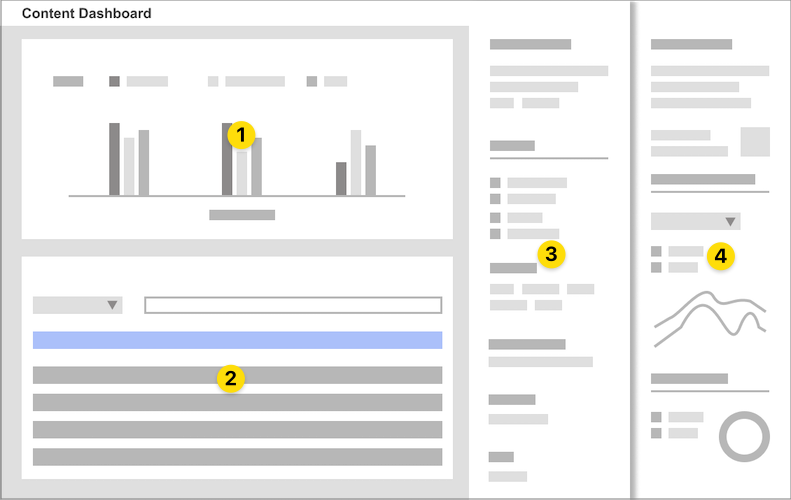
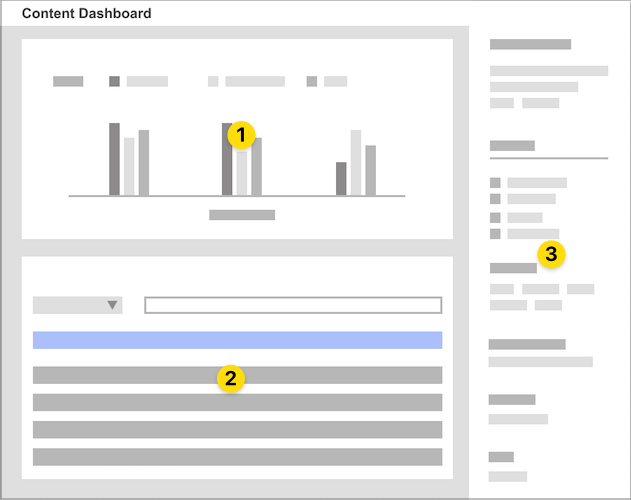
LRDOCS-9294 remove content performance info from content-dashboard-interface.md

diff --git a/docs/dxp/latest/en/content-authoring-and-management/content-dashboard/content-dashboard-interface.md b/docs/dxp/latest/en/content-authoring-and-management/content-dashboard/content-dashboard-interface.md
@@ -7,31 +7,26 @@ The Content Dashboard interface has the following areas:
 - [Content Audit Tool](#content-audit-tool) (1)
 - [Contents list](#contents-list) (2)
 - [Information sidebar](#information-sidebar) (3)
-- [Content Performance sidebar](#content-performance-sidebar) (4)
 
-![The Content Dashboard user interface](./content-dashboard-interface/images/05.png)
+![The Content Dashboard user interface.](./content-dashboard-interface/images/05.png)
 
-When you [open the Content Dashboard](#accessing-the-content-dashboard) page, you can see the [Content Audit Tool](#content-audit-tool) (1) at the top of the page and the [Contents list](#contents-list) (2) at the button. From the Contents list, you can access the [Information](#information-sidebar) (3) and [Content Performance](#content-performance-sidebar) (4) sidebars. These sidebars are collapsable elements that show additional information for each item in the Contents List.
+When you [open the Content Dashboard](#accessing-the-content-dashboard) page, you can see the [Content Audit Tool](#content-audit-tool) (1) at the top of the page and the [Contents List](#contents-list) (2) at the button. From the Contents list, you can access the [Information sidebar](#information-sidebar) (3) and the [Content Performance Tool](../content-performance-tool/about-the-content-performance-tool.md). The Information sidebar and the Content Performance Tool are collapsable elements that show additional details for each item in the Contents List.
 
-To access the Information or Performance sidebar, click the Actions Menu (![Action Menu](../../images/icon-actions.png)) for the content and select the *Info* or *View Metrics* option. Alternatively, hover over the article and click the *Info* (![Info](../../images/icon-information.png)) or *View Metrics* (![Metrics](../../images/icon-analytics.png)) icons.
-
-```important::
-   To access the metrics for your content in the Performance panel, you must connect the Liferay DXP instance with Liferay Analytics Cloud and synchronize your site. To learn more, see `Connecting Liferay DXP to Analytics Cloud <https://learn.liferay.com/analytics-cloud/latest/en/connecting-data-sources/connecting-liferay-dxp-to-analytics-cloud.html>`__.
-```
+To access the Information sidebar, click the Actions Menu (![Action Menu](../../images/icon-actions.png)) for the content and select the *Info* or *View Metrics* option. Alternatively, hover over the article and click the *Info* (![Info](../../images/icon-information.png)). For information on the *View Metrics* (![Metrics](../../images/icon-analytics.png)) option, read [About the Content Performance Tool](../content-performance-tool/about-the-content-performance-tool.md).
 
 ## Accessing the Content Dashboard
 
 1. Click on the Global Menu and, under the *Content* area, click *Content Dashboard*.
 1. If the Global Menu is disabled, open the Product Menu and, under the *Site* Menu, go to *Content* &rarr; *Content Dashboard*.
 
-    ![Open the Content Dashboard from the Global Menu](./content-dashboard-interface/images/03.png)
+    ![Open the Content Dashboard from the Global Menu.](./content-dashboard-interface/images/03.png)
 
 ## Content Audit Tool
 
-This tool is the graphical area at the top of the Content Dashboard page. The chart on this area represents the total number of assets for the combination of categories in the global Vocabularies you select. This chart takes into account:
+This tool is the graphical area at the top of the Content Dashboard page. The chart in this area represents the total number of assets for the combination of categories in the global Vocabularies you select. This chart takes into account:
 
 - Web content articles exclusively, across all Sites and Asset Libraries.
-- Content you have access to.
+- Content you have access.
 - The existing [filters](#filtering-and-sorting-content-in-the-contents-list) in the [Contents list](#contents-list).
 - A maximum of two global Vocabularies (for the *x* and *y* axes.)
 
@@ -82,7 +77,7 @@ In the Contents list you can find the following elements:
 - Search field (3)
 - List of contents (4)
 
-![Overview of the Contents list user interface](./content-dashboard-interface/images/06.png)
+![Overview of the Contents list user interface.](./content-dashboard-interface/images/06.png)
 
 In the list of contents, you can find the following columns:
 
@@ -108,12 +103,12 @@ For each entry in the Contents list, you can access the following options using 
 - *View* (![View](../../images/icon-preview.png)): Opens the Display Page in view mode.
 - *Edit* (![Edit](../../images/icon-edit.png)): Opens the content in edit mode.
 - *Info* (![Information](../../images/icon-information.png)): Opens the [Information sidebar](#information-sidebar).
-- *View Metrics* (![View Metrics](../../images/icon-analytics.png)): Opens the [Content Performance sidebar](#content-performance-sidebar).
+- *View Metrics* (![View Metrics](../../images/icon-analytics.png)): Opens the [Content Performance Tool](../content-performance-tool/about-the-content-performance-tool.md).
 
-    ![Access the Information and Performance sidebars from the Actions menu or the icons on each content row](./content-dashboard-interface/images/11.png)
+    ![Access the Information sidebar and Content Performance Tool from the Actions menu or the icons on each content row.](./content-dashboard-interface/images/11.png)
 
 ```note::
-   You can use the *View*, *Info*, and *Metrics* options for content based on a Display Page Template. You can use the *Edit* option when you have Edit permission for the content.
+   You can use the *View*, *Info*, and *View Metrics* options for content based on a Display Page Template. You can use the *Edit* option when you have Edit permission for the content.
 ```
 
 ### Filtering and Sorting Content in the Contents List
@@ -122,7 +117,7 @@ To filter the content:
 
 1. Click the *Filter and Order* drop-down menu.
 1. Select one of the predefined filters or a custom filter (denoted by three dots) to create your own filter criteria.
-1. Select the content you want to filter by.
+1. Select the content you want to filter.
 
 The Filter Editor area shows your filters and the total number of results. To remove one or more filters, click the *Close* (![Close](../../images/icon-times.png)) button next to the filter's name, or click *Clear* to remove all the filters and reset the Contents list. In addition to the predefined and custom filters, you can search and filter the assets in the Content View using keywords in the Search field.
 
@@ -134,53 +129,28 @@ To sort the content:
 1. Under the *Order By* section, select the order for the items.
 
 ```note::
-   Whe you close the Content Dashboard page, the default filter and sorting option are set again.
+   When you close the Content Dashboard page, the default filter and sorting option are set again.
 ```
 
 ## Information Sidebar
 
 This sidebar provides access to different metadata for the asset selected in the Contents list, including the asset owner, available languages for the content, tags and categories for the asset, or review date.
 
-![Access the Information sidebar from the assets in the Contents list](./content-dashboard-interface/images/07.png)
+![Access the Information sidebar from the assets in the Contents list.](./content-dashboard-interface/images/07.png)
 
 ```note::
    You can open the Information Sidebar for assets with a Content Display Page associated. You can identify these assets in the Contents list by the Page icon next to the asset name.
 ```
 
-To open the Information sidebar panel:
+To open the Information sidebar:
 
 1. Click the Actions Menu (![Actions Menu](../../images/icon-actions.png)) next to the asset and select *Info*.
 1. Alternatively, hover over the asset and click the *Info* (![Information icon](../../images/icon-information.png)) icon.
 
-    ![The Information sidebar provides different metadata for your content](./content-dashboard-interface/images/09.png)
-
-## Content Performance Sidebar
-
-This sidebar shows statistics for your content, like the number of reads and views or the web traffic channels.
-
-![Access the Performance sidebar from the assets in the Contents list](./content-dashboard-interface/images/08.png)
-
-You can access the Content Performance sidebar for assets in the Contents list when the following conditions are met:
-
-- You have View and Edit permissions for the content.
-- The content is based on a [Display Page Template](../../site-building/displaying-content/using-display-page-templates/displaying-content-with-display-page-templates.md) (denoted by the *Page* (![Page](../../images/icon-page.png)) icon).
-- The Liferay DXP instance has an active [connection to Liferay Analytics Cloud](https://learn.liferay.com/analytics-cloud/latest/en/connecting-data-sources/connecting-liferay-dxp-to-analytics-cloud.html) and your site is synchronized.
-
-```note::
-   The *Metrics* option for your content is available when these conditions are met (2). If the *Metrics* options is missing, one or more conditions are not met (1).
-```
-
-![Ensure that your configuration meets the conditions for showing the content metrics](./content-dashboard-interface/images/13.png)
-
-To open the Performance sidebar panel:
-
-1. Click the Actions menu (![Actions Menu](../../images/icon-actions.png)) next to the asset and select *View Metrics*.
-1. Alternatively, hover over the asset and click the *View Metrics* (![Metrics](../../images/icon-analytics.png)) icon.
-
-To learn how to analyze your content performance using the Performance area, see [Analyze Content Metrics Using the Content Performance](./analyze-content-metrics-using-content-performance-tool.md).
+    ![The Information sidebar provides different metadata for your content.](./content-dashboard-interface/images/09.png)
 
 ## Related Information
 
 - [About the Content Dashboard](./about-the-content-dashboard.md)
-- [Analyze Content Metrics Using the Content Performance Tool](./analyze-content-metrics-using-content-performance-tool.md)
+- [About the Content Performance Tool](../content-performance-tool/about-the-content-performance-tool.md)
 - [Defining Categories and Vocabularies for Content](../tags-and-categories/defining-categories-and-vocabularies-for-content.md)

diff --git a/docs/dxp/latest/en/content-authoring-and-management/content-dashboard/about-the-content-dashboard.md b/docs/dxp/latest/en/content-authoring-and-management/content-dashboard/about-the-content-dashboard.md
@@ -20,15 +20,15 @@ The Content Dashboard shows information based on the Categories you assign to co
 
 To access the Content Dashboard, click on the Global Menu and, under the *Content* area, click *Content Dashboard*.
 
-![Open the Content Dashboard from the Global Menu](./about-the-content-dashboard/images/02.png)
+![Open the Content Dashboard from the Global Menu.](./about-the-content-dashboard/images/02.png)
 
 ```note::
    If the Global Menu is disabled, open the Product Menu and, under the *Site* Menu, go to *Content* → *Content Dashboard*.
 ```
 
-You can see different areas in the Content Dashboard page.
+You can see different areas on the Content Dashboard page.
 
-![Components of the Content Dashboard Interface](./about-the-content-dashboard/images/01.png)
+![Components of the Content Dashboard Interface.](./about-the-content-dashboard/images/01.png)
 
 The [Content Audit Tool](./content-dashboard-interface.md#content-audit-tool) (1) is the graphical area at the top of the page. It shows metrics for the Vocabularies and Categories you define in Liferay. You can include and combine your global Vocabularies here, and filter the Categories to analyze your data in different ways.
 
